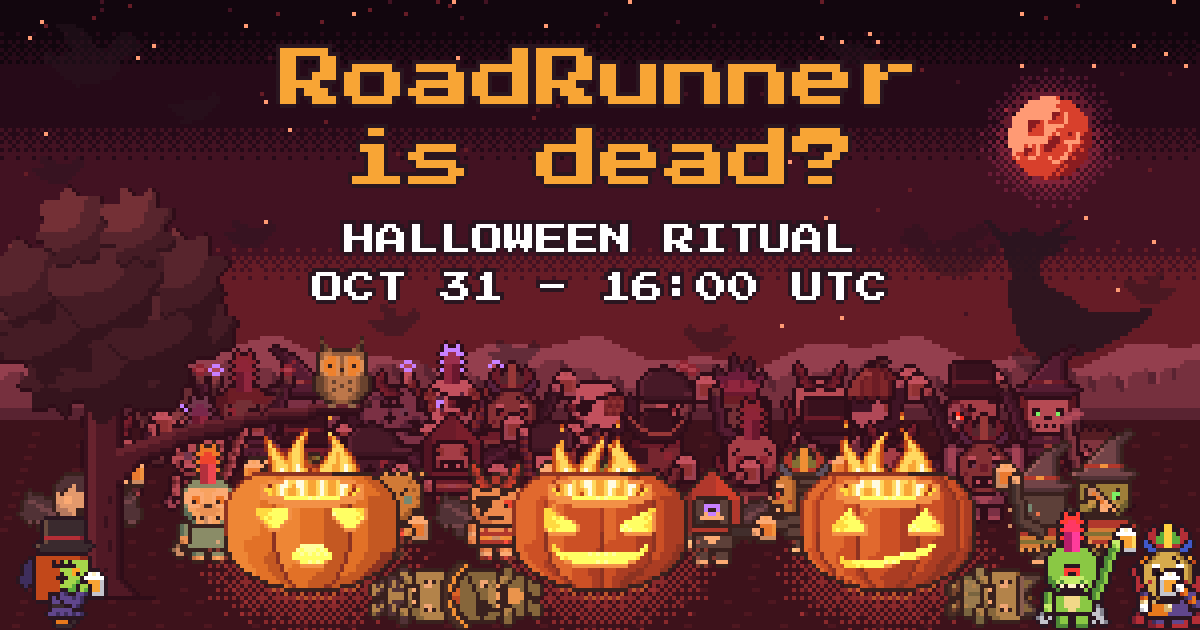
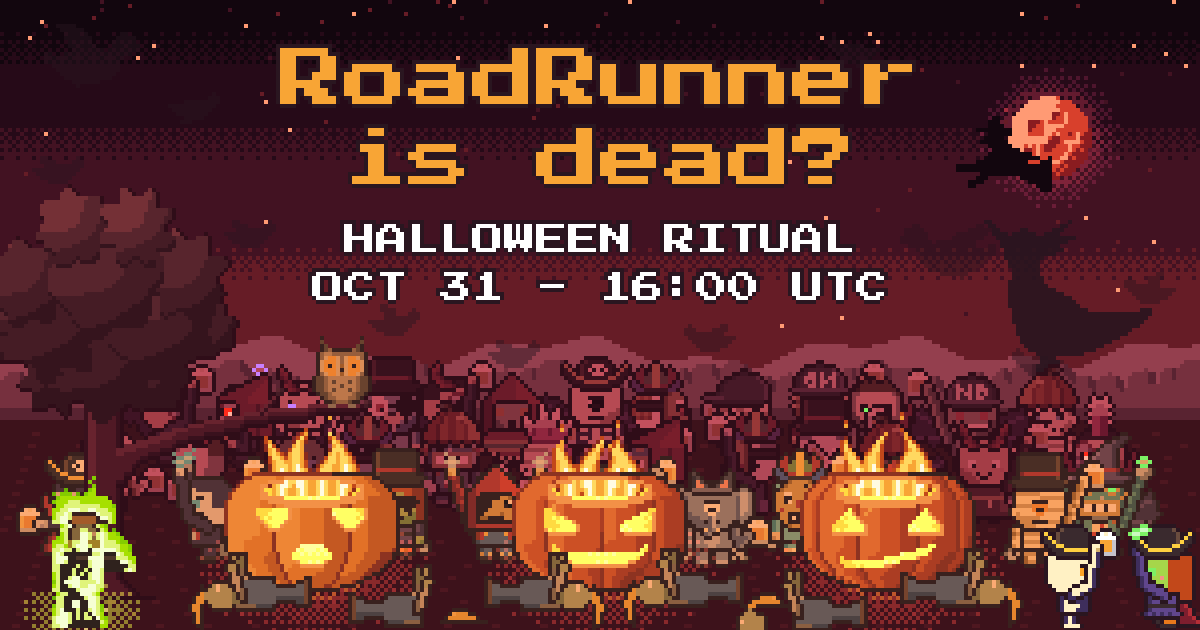
feat(views): lay zombie workers under the preview's pumpkins and send the witch across the moon
Assisted-By: Claude Opus 5.5 <noreply@anthropic.com>

Changed region(s): [[0.0, 0.5429, 1.0, 1.0], [0.8017, 0.181, 0.8942, 0.3016]]

diff --git a/public/dev/og.html b/public/dev/og.html
@@ -16,6 +16,7 @@
 <script type="module">
     import { pumpkinLayers, silhouette, DECOR, bake } from '../js/pixel/sprites.js';
     import { FLYERS } from '../js/pixel/flyers.js';
+    import { zombieBurnArt } from '../js/pixel/deaths.js';
     import { paintSky, bakeLit, relightCanvas, halo, NIGHT, LIT_PALETTE } from '../js/pixel/night.js';
     import { OWL } from '../js/pixel/owl.js';
     import { RUNNER } from '../js/pixel/finale.js';
@@ -69,6 +70,10 @@
         put(bake(duck), duck.anchor ?? { x: duck.w >> 1, y: duck.h >> 1 }, x, y, { flip: x > 150, alpha: 0.45 });
     }
 
+    // The witch, the rare flyer, crossing the blood moon
+    const witch = silhouette(FLYERS.witch[2].fly[1], 'bloodTop');
+    put(bake(witch), witch.anchor ?? { x: witch.w >> 1, y: witch.h >> 1 }, 250, 40, { flip: true });
+
     // RoadRunner on the horizon: only a dark shape — is it dead?
     const runner = silhouette(RUNNER.xl.stop, 'outline');
     put(bake(runner), runner.anchor, 262, HORIZON - 4, { alpha: 0.9, flip: true });
@@ -115,23 +120,33 @@
         }
     }
 
-    // A zombie worker lying on its back: the standing frame turned a quarter, head to the side
-    const fallen = (x, y, flip) => {
-        const f = characterFrame(randomLook(random), { pose: 'lurch', zombie: true });
-        ctx.save();
-        ctx.translate(Math.round(x), Math.round(y));
-        if (flip) ctx.scale(-1, 1);
-        ctx.rotate(Math.PI / 2);
-        ctx.drawImage(relightCanvas(f.canvas, 'firelight'), -f.anchor.x - 8, -f.anchor.y);
-        ctx.restore();
-    };
+    // Zombie workers of the cursed world, knocked flat at the pumpkins' feet
+    const zombie = FLYERS.zombie[1];
+    const fallen = (def, x, y, flip) => put(bakeLit(def, 'firelight'), def.anchor, x, y, { flip });
 
-    // The front: big pumpkins with fallen zombies at their feet, nobody standing before them
-    for (const [x, s, flip] of [[78, 3, false], [150, 21, true], [222, 7, false]]) {
+    // The front: big pumpkins over heaps of fallen zombies, nobody standing before them
+    for (const [x, s] of [[78, 3], [150, 21], [222, 7]]) {
         scene.push({ y: 148, draw: (y) => pumpkin(7, 'l', s, x, y) });
-        scene.push({ y: 158, draw: () => fallen(x + (flip ? -14 : 14), 158, flip) });
     }
-    for (const x of [16, 268, 292]) {
+    for (const [def, x, y, flip] of [
+        [zombie.fall[1], 62, 158, false], [zombie.headless.flat, 98, 157, true], [zombie.fall[1], 136, 158, true],
+        [zombie.fall[1], 170, 157, false], [zombie.headless.flat, 206, 158, false], [zombie.fall[1], 240, 157, true],
+        [zombie.pieces.hat, 116, 154, false], [zombie.pieces.head, 190, 155, true],
+    ]) {
+        scene.push({ y: 159, draw: () => fallen(def, x, y, flip) });
+    }
+
+    // One zombie by the tree still burns in FrankenPHP's lime fire
+    scene.push({ y: 157, draw: (y) => {
+        const art = zombieBurnArt();
+        const src = zombie.idle[0];
+        const x = 20;
+        light(halo(16, 9, 'franken'), x, y - 4, { add: true, alpha: 0.7 });
+        put(bakeLit(art.body[2], 'firelight'), art.body[2].anchor ?? src.anchor, x, y);
+        const fire = art.flames[2][1];
+        put(bake(fire), fire.anchor ?? { x: src.anchor.x + 3, y: src.anchor.y + 10 }, x, y);
+    } });
+    for (const x of [268, 292]) {
         scene.push({ y: 157 + Math.round(random() * 2), draw: (yy) => walker(x, yy, null) });
     }
     // The owl on the dead tree, the narrator, stands among the crowd
